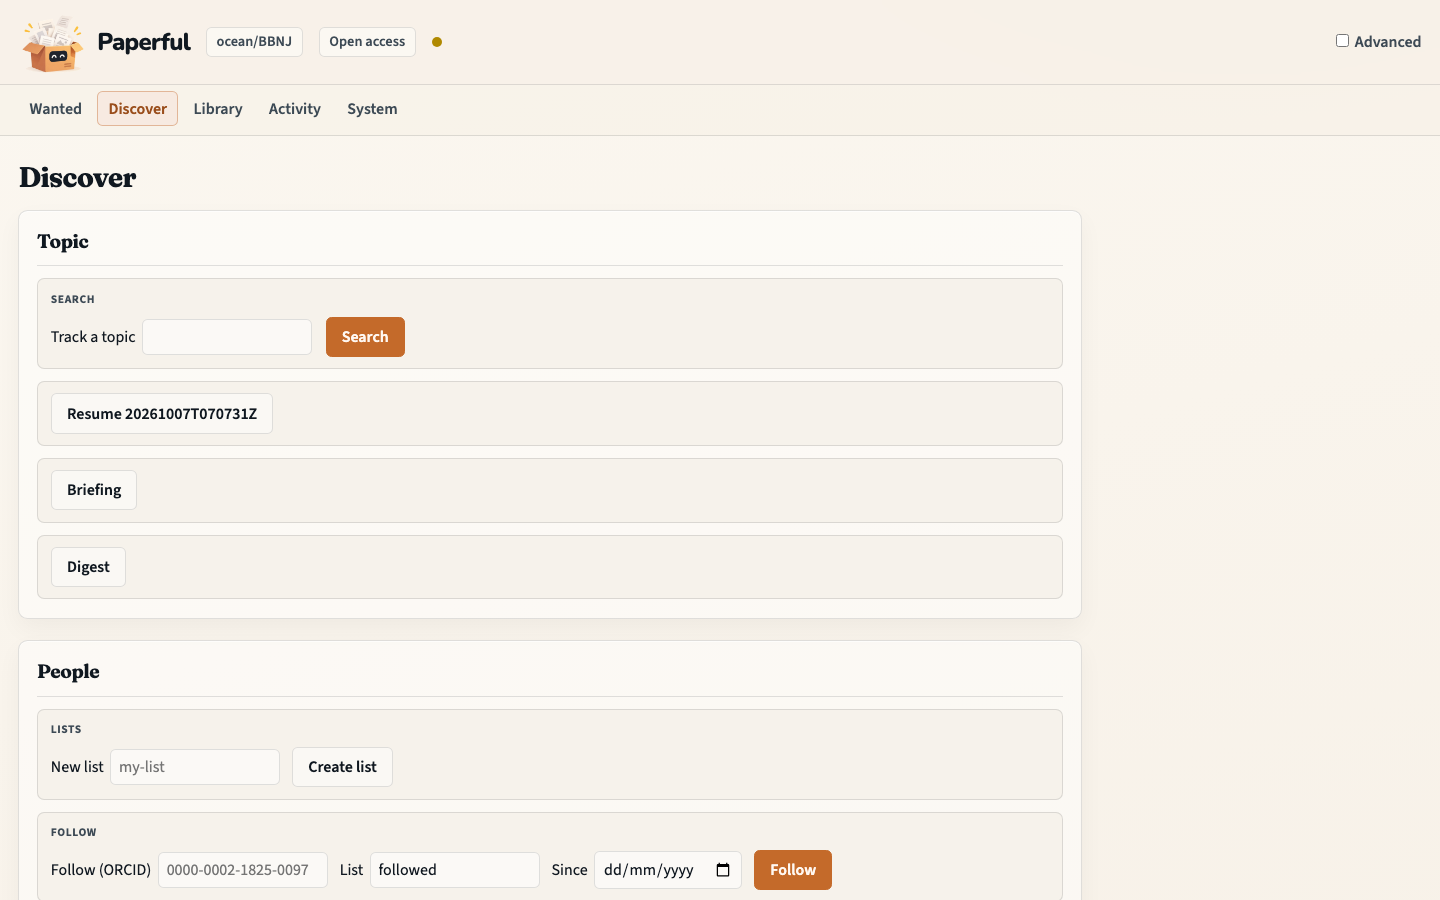
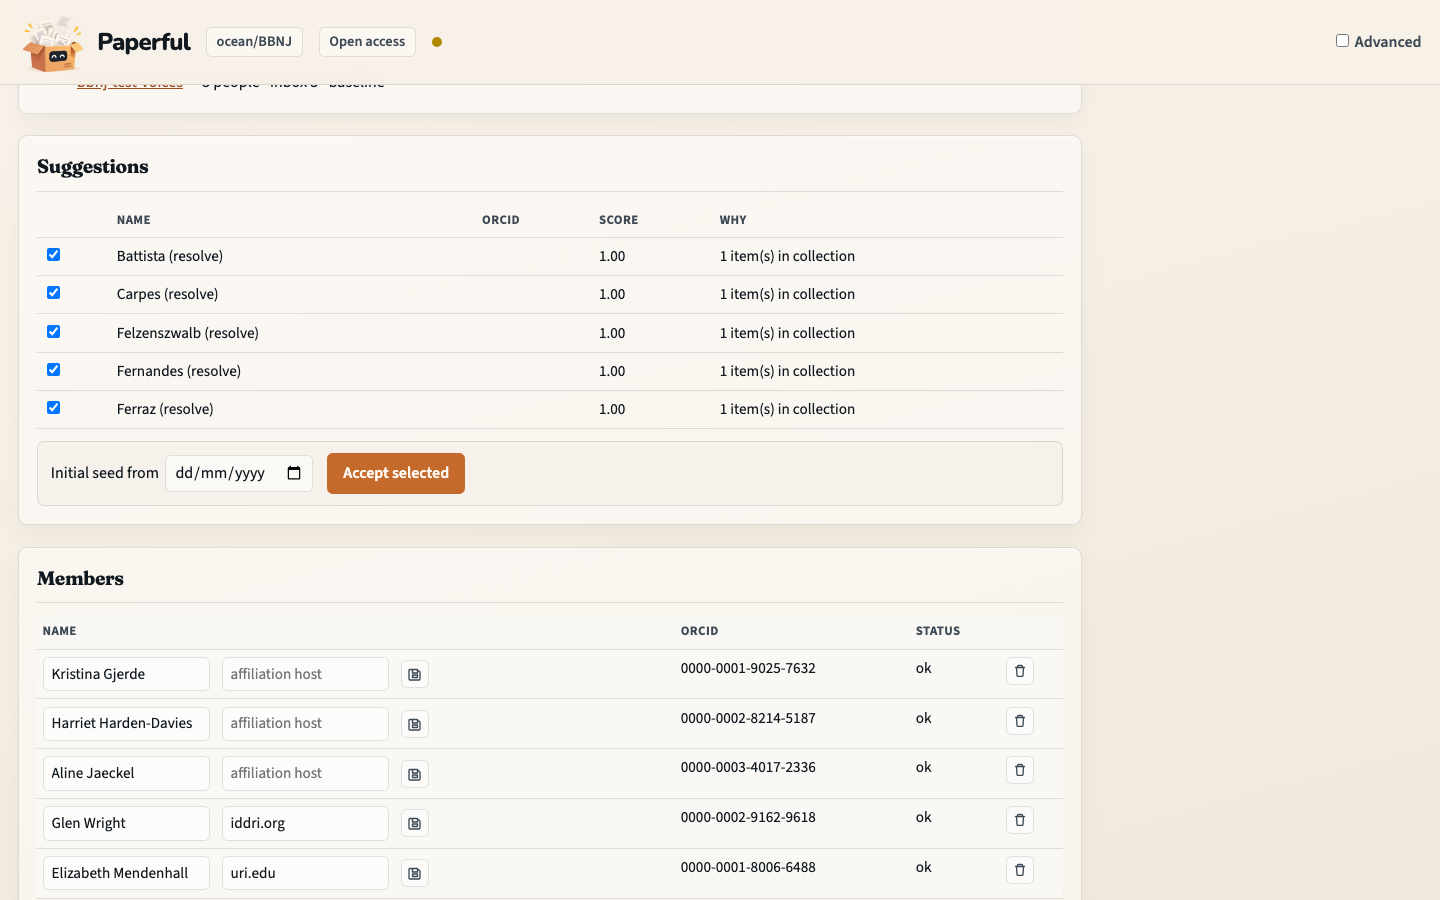
Recapture workbench stills with forms in use.
Empty landing-page shots made the guide look unfinished; fill demo queries, tick Wanted rows, and fix selected-action labels so the stills match a real pass.

diff --git a/website/index.html b/website/index.html
@@ -117,7 +117,7 @@
             <figure class="shot">
               <img
                 src="images/workbench-wanted.png"
-                alt="Wanted: missing PDFs in a collection, ready to fetch"
+                alt="Wanted: missing PDFs selected for Preview, Grab, and Attach"
                 width="1440"
                 height="900"
               />
@@ -128,13 +128,13 @@
                     <path d="M9 8h6M9 12h6M9 16h3.5" />
                   </svg>
                 </span>
-                Wanted — missing PDFs, ready to fetch
+                Wanted — missing PDFs, selected to fetch
               </figcaption>
             </figure>
             <figure class="shot">
               <img
                 src="images/workbench-discover.png"
-                alt="Discover: search a topic or follow people"
+                alt="Discover: topic filled, ready to search or follow people"
                 width="1440"
                 height="900"
               />

diff --git a/paperful/ui/static/workbench.js b/paperful/ui/static/workbench.js
@@ -2,7 +2,11 @@
   function updateToolbarLabels() {
     var form = document.getElementById("wanted-form");
     if (!form) return;
-    var boxes = form.querySelectorAll(".row-select:checked:not(:disabled)");
+    // Row checkboxes live in the items table and point at the form via
+    // the ``form`` attribute, so they are not descendants of #wanted-form.
+    var boxes = document.querySelectorAll(
+      "input.row-select:checked:not(:disabled)"
+    );
     var any = boxes.length > 0;
     ["preview-btn", "grab-btn", "attach-btn"].forEach(function (id) {
       var btn = document.getElementById(id);

diff --git a/scripts/docs/capture_workbench.py b/scripts/docs/capture_workbench.py
@@ -99,14 +99,41 @@ def _tick_first(page, n: int) -> None:
     for i in range(total):
         boxes.nth(i).check()
     if total:
+        # Docker-served workbench.js may still query only descendants of
+        # #wanted-form; set the selected labels from the ticked boxes.
+        page.evaluate(
+            """() => {
+              const any = document.querySelectorAll(
+                'input.row-select:checked:not(:disabled)'
+              ).length > 0;
+              ['preview-btn', 'grab-btn', 'attach-btn'].forEach((id) => {
+                const btn = document.getElementById(id);
+                if (!btn) return;
+                const next = any
+                  ? btn.getAttribute('data-label-sel')
+                  : btn.getAttribute('data-label-all');
+                if (next) btn.textContent = next;
+              });
+            }"""
+        )
         page.wait_for_timeout(150)
 
 
-def _scroll_h2(page, title: str) -> None:
-    loc = page.locator("h2", has_text=title)
-    if loc.count():
-        loc.first.scroll_into_view_if_needed()
-        page.wait_for_timeout(200)
+def _scroll_below_chrome(page, heading: str) -> None:
+    page.evaluate(
+        """(heading) => {
+          const h = [...document.querySelectorAll('h2')].find(
+            (el) => (el.textContent || '').trim() === heading
+          );
+          if (!h) return;
+          const nav = document.querySelector('.wb-nav');
+          const offset = (nav ? nav.getBoundingClientRect().bottom : 80) + 16;
+          const y = h.getBoundingClientRect().top + window.scrollY - offset;
+          window.scrollTo(0, Math.max(0, y));
+        }""",
+        heading,
+    )
+    page.wait_for_timeout(200)
 
 
 def _best_ask_thread(collection: str, question: str) -> str | None:
@@ -226,8 +253,7 @@ def main() -> None:
         for heading in ("Suggestions", "Members", "People"):
             loc = page.locator("h2", has_text=heading)
             if loc.count():
-                loc.first.scroll_into_view_if_needed()
-                page.wait_for_timeout(200)
+                _scroll_below_chrome(page, heading)
                 break
         _shot(page, "discover-people.png")
 
@@ -299,12 +325,8 @@ def main() -> None:
         _fill(page, "form[action='/index/ingest'] input[name='year_to']", "2026")
         _fill(page, "form[action='/index/ingest'] input[name='limit']", "40")
         _fill(page, "form[action='/index/ask'] textarea[name='question']", ASK_QUESTION)
-        _fill(
-            page,
-            "form[action='/index/ask-batch'] textarea[name='questions']",
-            "What is the BBNJ clearing-house mechanism?\n"
-            "How does the treaty treat marine genetic resources?",
-        )
+        page.locator("h1", has_text="Index").first.scroll_into_view_if_needed()
+        page.wait_for_timeout(150)
         _shot(page, "index.png")
 
         thread_id = _best_ask_thread(COLLECTION, ASK_QUESTION)
@@ -327,14 +349,6 @@ def main() -> None:
         _fill(page, "form[action='/briefs/synthesize'] input[name='limit']", "40")
         _fill(page, "form[action='/briefs/synthesize'] input[name='year_from']", "2020")
         _fill(page, "form[action='/briefs/synthesize'] input[name='year_to']", "2026")
-        page.evaluate(
-            """() => {
-              document.querySelectorAll('main details').forEach((el) => {
-                el.open = true;
-              });
-            }"""
-        )
-        page.wait_for_timeout(150)
         _shot(page, "briefs.png")
 
         browser.close()

diff --git a/tests/test_sphinx_docs.py b/tests/test_sphinx_docs.py
@@ -115,6 +115,7 @@ def test_walkthrough_pages_and_screenshots():
     for name in (
         "wanted.png",
         "discover.png",
+        "discover-people.png",
         "repair.png",
         "index.png",
         "index-ask.png",

diff --git a/docs/first-fill.md b/docs/first-fill.md
@@ -41,11 +41,11 @@ The screenshots are `ocean/BBNJ`. The clicks are the same for any collection.
 
 ![Wanted: missing PDFs in ocean/BBNJ, rows selected for Preview / Grab](_static/workflows/wanted.png)
 
-3. Choose **Preview all** (or tick rows, then Preview selected). Activity
-   records the command. If the library changed since preview, Grab refuses
-   (HTTP 409) — preview again.
+3. Tick the rows you want, then **Preview selected** (or **Preview all**).
+   Activity records the command. If the library changed since preview, Grab
+   refuses (HTTP 409) — preview again.
 
-4. Choose **Grab all** (or Grab selected). Files land under `out/` with a
+4. Choose **Grab selected** (or Grab all). Files land under `out/` with a
    provenance stamp (`paperful oa:unpaywall`, …). Zotero is unchanged.
 
 5. Open `out/` in your file manager. Trust the disk before notes or Ask.
@@ -55,8 +55,8 @@ The screenshots are `ocean/BBNJ`. The clicks are the same for any collection.
 
 ![Wanted Held: downloads waiting for a human look, rows ticked before Attach](_static/workflows/wanted-held.png)
 
-7. Tick the copies you trust and choose **Attach PDFs to this Zotero
-   library**. On Zotero 7–9 the files stay on disk until you attach later
+7. Tick the copies you trust and choose **Attach selected PDFs**. On
+   Zotero 7–9 the files stay on disk until you attach later
    (`paperful attach` on the CLI).
 
 8. **System** is the doctor table if Wanted shows an amber coach line (no

diff --git a/CHANGELOG.md b/CHANGELOG.md
@@ -84,6 +84,9 @@ extras allowed). This tree is not tagged 1.0. See [releases](docs/releases.md).
 - **Docs screenshots:** workbench stills show forms in use (selected Wanted
   rows, Discover query, Index search + Ask), not empty landing pages.
   Recapture: `scripts/docs/capture_workbench.py`.
+- **Wanted row ticks:** Preview / Grab / Attach labels switch to “selected”
+  when table checkboxes are ticked (they sit outside `#wanted-form` and
+  point at it with the `form` attribute).
 - **Workbench chrome:** product box mark + Nunito wordmark top-left; cream paper,
   Fraunces / Nunito / Source Sans 3, and accent buttons match the public site.
 - **Library collections:** nested `<details>` groups by path (AO → Mini meta

diff --git a/README.md b/README.md
@@ -38,9 +38,9 @@ Walkthroughs: [first fill](docs/first-fill.md), [grow the library](docs/grow-lib
 
 ## Screenshots
 
-![Wanted: missing PDFs, Preview then Grab then Attach](docs/_static/workflows/wanted.png)
+![Wanted: missing PDFs selected for Preview, then Grab, then Attach](docs/_static/workflows/wanted.png)
 
-![Discover: search a topic or follow people](docs/_static/workflows/discover.png)
+![Discover: topic filled, ready to search or follow people](docs/_static/workflows/discover.png)
 
 ![Repair: lint, fix metadata, review duplicates](docs/_static/workflows/repair.png)
 

diff --git a/CONTRIBUTING.md b/CONTRIBUTING.md
@@ -26,7 +26,8 @@ only `docs/*.md`; every page must appear in `docs/index.md` toctrees
 run `docker compose up`, then
 `.venv/bin/python scripts/docs/capture_workbench.py` (writes
 `docs/_static/workflows/` and homepage copies under `website/images/`).
-Do not capture Settings (email) or Sci-Hub.
+The script fills demo values and ticks rows; it does not submit Grab or
+Apply. Do not capture Settings (email) or Sci-Hub.
 
 Zotero must be running with the local API enabled for integration tests that touch the CLI; most tests use stubs and run offline.
 

diff --git a/docs/gui.md b/docs/gui.md
@@ -122,7 +122,7 @@ saved under `state/prompts/`), item keys, types, years, and top-k; batch adds
 **Already answered?** (`rag answered`, `state/rq-answered/`) use the same scope.
 Collection chip is the scope. **Synthesize** on Index when `[llm]` is on.
 
-![Index: ingest scoped, passage search run, Ask question typed](_static/workflows/index.png)
+![Index: ingest scoped and a passage search run over ocean/BBNJ](_static/workflows/index.png)
 
 ![Index Ask: a cited answer from PDFs already on disk in ocean/BBNJ](_static/workflows/index-ask.png)
 

diff --git a/docs/grow-library.md b/docs/grow-library.md
@@ -65,6 +65,8 @@ not a keyword hop.
 4. **Get suggestions** ranks people already in the collection chip
    (`suggest -C`). Tick **Accept** to put them on the list.
 
+![Discover People: suggestions ticked, members already on the list](_static/workflows/discover-people.png)
+
 Paperful does not live-scrape ResearchGate or LinkedIn. Save a follows page
 and **Import**. Details: [Author watch](authorwatch.md).
 
